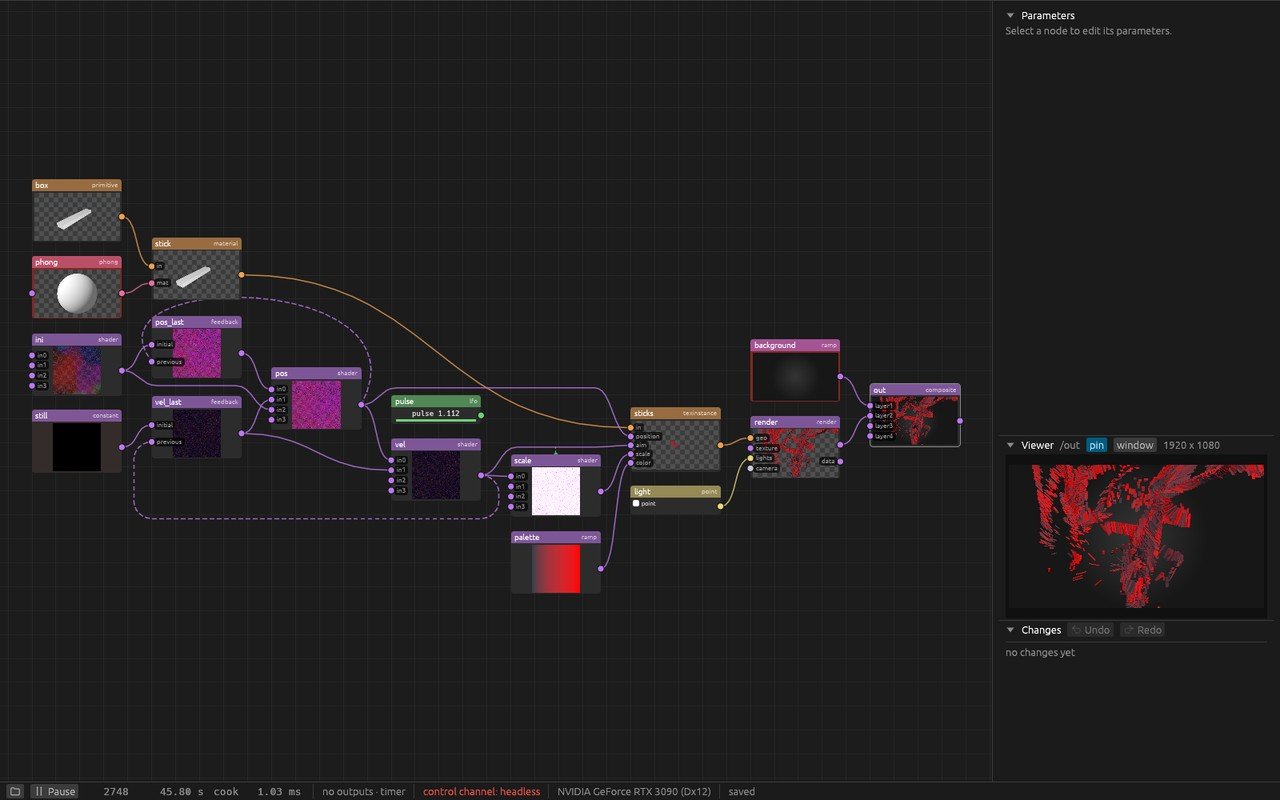
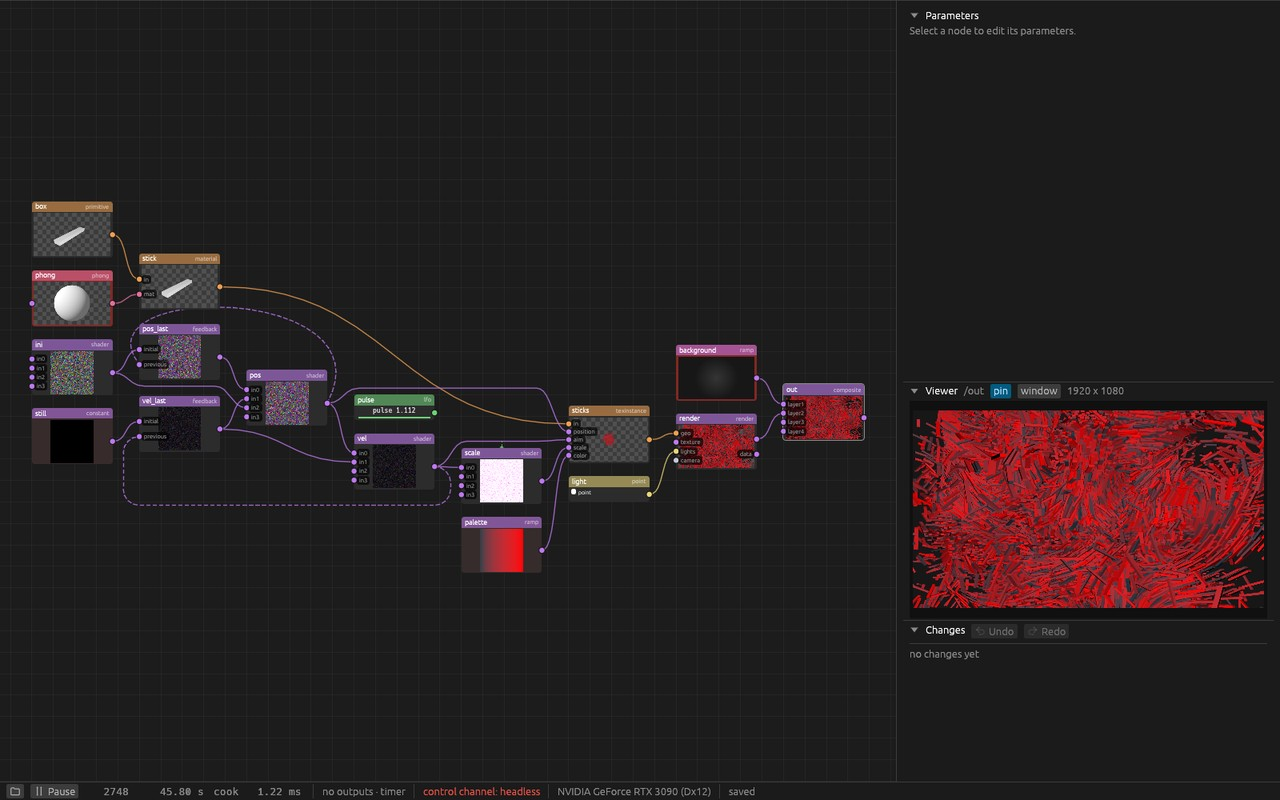
M6: curl-noise starts spread out: each particle its own random point
The start positions came from smooth noise of the texel coordinates, so neighbouring
particles started at nearly the same spot and the swarm began as one clump that took about
half a minute to spread. Now every particle gets a random point of a round cloud (normal
per axis, `spread` 1.6, the width the old flow kept once spread), which is also where it
starts again when spent. The first second looks like the running flow. Gallery picture
regenerated.

generated with Claude Code

Changed region(s): [[0.0, 0.2188, 1.0, 0.8438], [0.7188, 0.0, 0.9062, 0.0625]]

diff --git a/examples/curl-noise/README.md b/examples/curl-noise/README.md
@@ -5,7 +5,9 @@ velocity, growing and shrinking over its life, the whole swarm pulsing in length
 
 The simulation runs on the GPU, one particle per texel of a 256 x 256 texture:
 
-- `/ini` (`ini.wgsl`) holds where particles start: a position in rgb, a random life in alpha.
+- `/ini` (`ini.wgsl`) holds where particles start: a random point of a round cloud in rgb (its
+  `spread` says how wide), a random life in alpha. Each particle gets its own point, so the
+  swarm looks from the first frame as it does later.
 - `/pos` (`pos.wgsl`) moves each particle by its velocity and ages it; a spent one starts again
   at its place in `/ini`. `/pos_last` is a `tex.feedback` that hands the positions to the next
   frame.
@@ -16,11 +18,11 @@ The simulation runs on the GPU, one particle per texel of a 256 x 256 texture:
 towards `/vel`, stretched by `/scale` (the size times `/pulse`) and coloured by `/palette`.
 `/render` draws them lit by `/light`, `/out` puts them over a dark radial `/background`.
 
-The swarm needs half a minute or so to spread out from its start.
-
 Try:
 
 - `/palette` `keys`: other colours (the sticks take them by column).
 - `/vel` `noise`: the first value is the push's strength, the second how small the swirls are.
 - `/pulse` `rate` and `amplitude`, or bind `/scale` `pulse` to a sound level instead.
 - `/box` `size` for thicker or longer sticks.
+- `/ini` `spread`: a smaller cloud leaves more of the background free, a larger one reaches the
+  camera and fills the picture.
